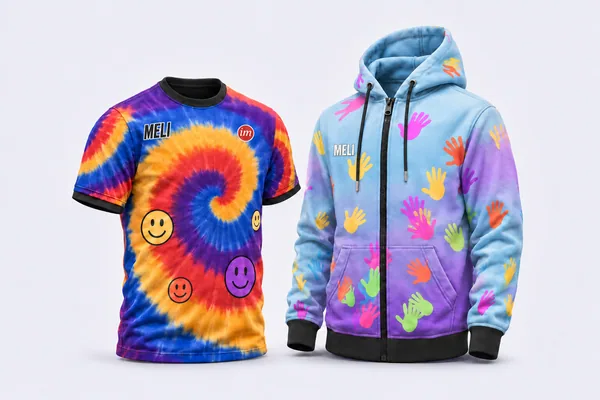
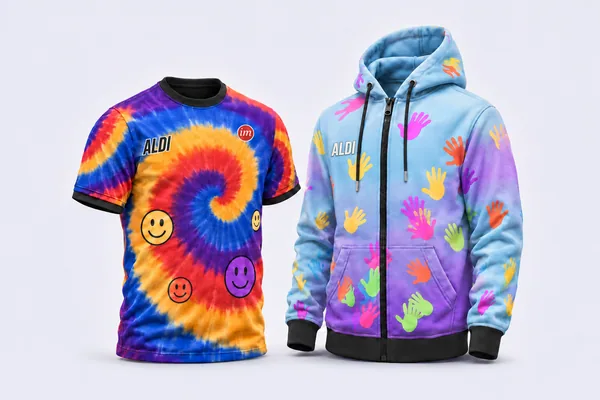
Set ALDI lettering on the hero apparel

Changed region(s): [[0.21, 0.3, 0.3, 0.39], [0.54, 0.33, 0.6, 0.39]]

diff --git a/site/index.html b/site/index.html
@@ -55,7 +55,7 @@
   <div class="ctas rv d2"><a class="btn btn-red" href="https://wa.me/5492644127431?text=Hola%20Impronta!%20Quiero%20pedir%20un%20presupuesto." target="_blank" rel="noopener"><svg class="wa" aria-hidden="true"><use href="#wa"/></svg>Pedir presupuesto</a><a class="more" href="#configurador">Diseñá el tuyo en 3D <span aria-hidden="true">›</span></a></div>
  </div>
  <div class="hero-stage" id="heroR">
-  <img class="shot" id="heroShot" fetchpriority="high" decoding="async" src="img/impronta-collection-names.webp" srcset="img/impronta-collection-names-600.webp 600w, img/impronta-collection-names-900.webp 900w, img/impronta-collection-names.webp 1536w" sizes="(max-width:760px) 100vw, (max-width:1120px) 86vw, 935px" width="1536" height="1024" alt="Remera tie-dye con el nombre MELI y el logo de Impronta, y campera con estampado de manos y el nombre MELI">
+  <img class="shot" id="heroShot" fetchpriority="high" decoding="async" src="img/impronta-collection-names.webp" srcset="img/impronta-collection-names-600.webp 600w, img/impronta-collection-names-900.webp 900w, img/impronta-collection-names.webp 1536w" sizes="(max-width:760px) 100vw, (max-width:1120px) 86vw, 935px" width="1536" height="1024" alt="Remera tie-dye con el nombre ALDI y el logo de Impronta, y campera con estampado de manos y el nombre ALDI">
  </div>
  <div class="wrap facts rv"><div><b>Full color</b><span>Sublimación, diseño a elección</span></div><div><b>T4 a TXXL</b><span>Desde jardín hasta adultos</span></div><div><b>Todo el país</b><span>Envíos desde San Juan</span></div></div>
 </section>

diff --git a/src/index.html b/src/index.html
@@ -54,7 +54,7 @@
   <div class="ctas rv d2"><a class="btn btn-red" href="https://wa.me/5492644127431?text=Hola%20Impronta!%20Quiero%20pedir%20un%20presupuesto." target="_blank" rel="noopener"><svg class="wa" aria-hidden="true"><use href="#wa"/></svg>Pedir presupuesto</a><a class="more" href="#configurador">Diseñá el tuyo en 3D <span aria-hidden="true">›</span></a></div>
  </div>
  <div class="hero-stage" id="heroR">
-  <img class="shot" id="heroShot" fetchpriority="high" decoding="async" src="img/impronta-collection-names.webp" srcset="img/impronta-collection-names-600.webp 600w, img/impronta-collection-names-900.webp 900w, img/impronta-collection-names.webp 1536w" sizes="(max-width:760px) 100vw, (max-width:1120px) 86vw, 935px" width="1536" height="1024" alt="Remera tie-dye con el nombre MELI y el logo de Impronta, y campera con estampado de manos y el nombre MELI">
+  <img class="shot" id="heroShot" fetchpriority="high" decoding="async" src="img/impronta-collection-names.webp" srcset="img/impronta-collection-names-600.webp 600w, img/impronta-collection-names-900.webp 900w, img/impronta-collection-names.webp 1536w" sizes="(max-width:760px) 100vw, (max-width:1120px) 86vw, 935px" width="1536" height="1024" alt="Remera tie-dye con el nombre ALDI y el logo de Impronta, y campera con estampado de manos y el nombre ALDI">
  </div>
  <div class="wrap facts rv"><div><b>Full color</b><span>Sublimación, diseño a elección</span></div><div><b>T4 a TXXL</b><span>Desde jardín hasta adultos</span></div><div><b>Todo el país</b><span>Envíos desde San Juan</span></div></div>
 </section>
